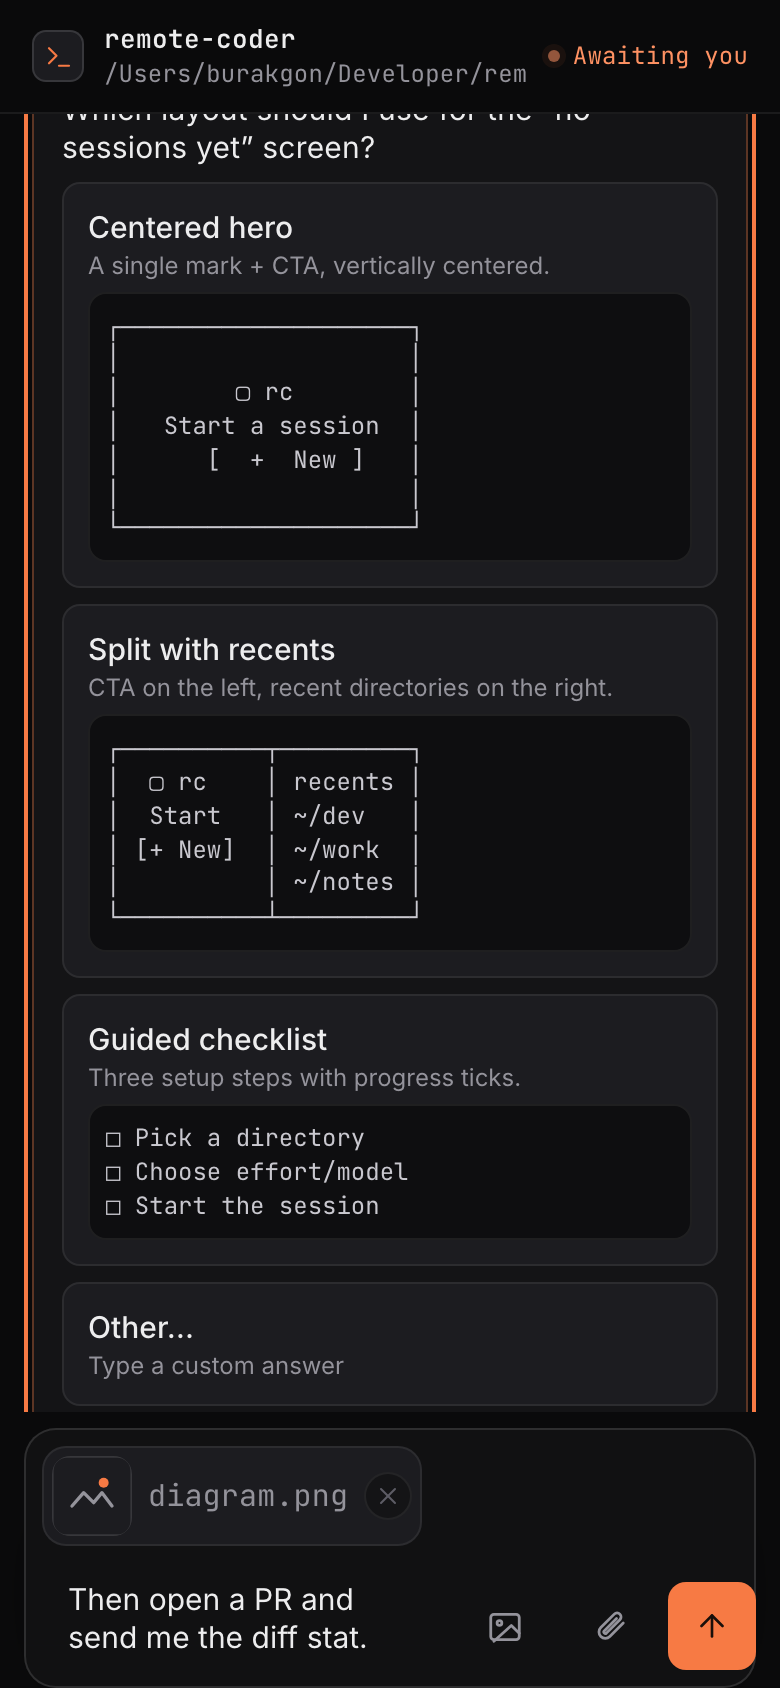
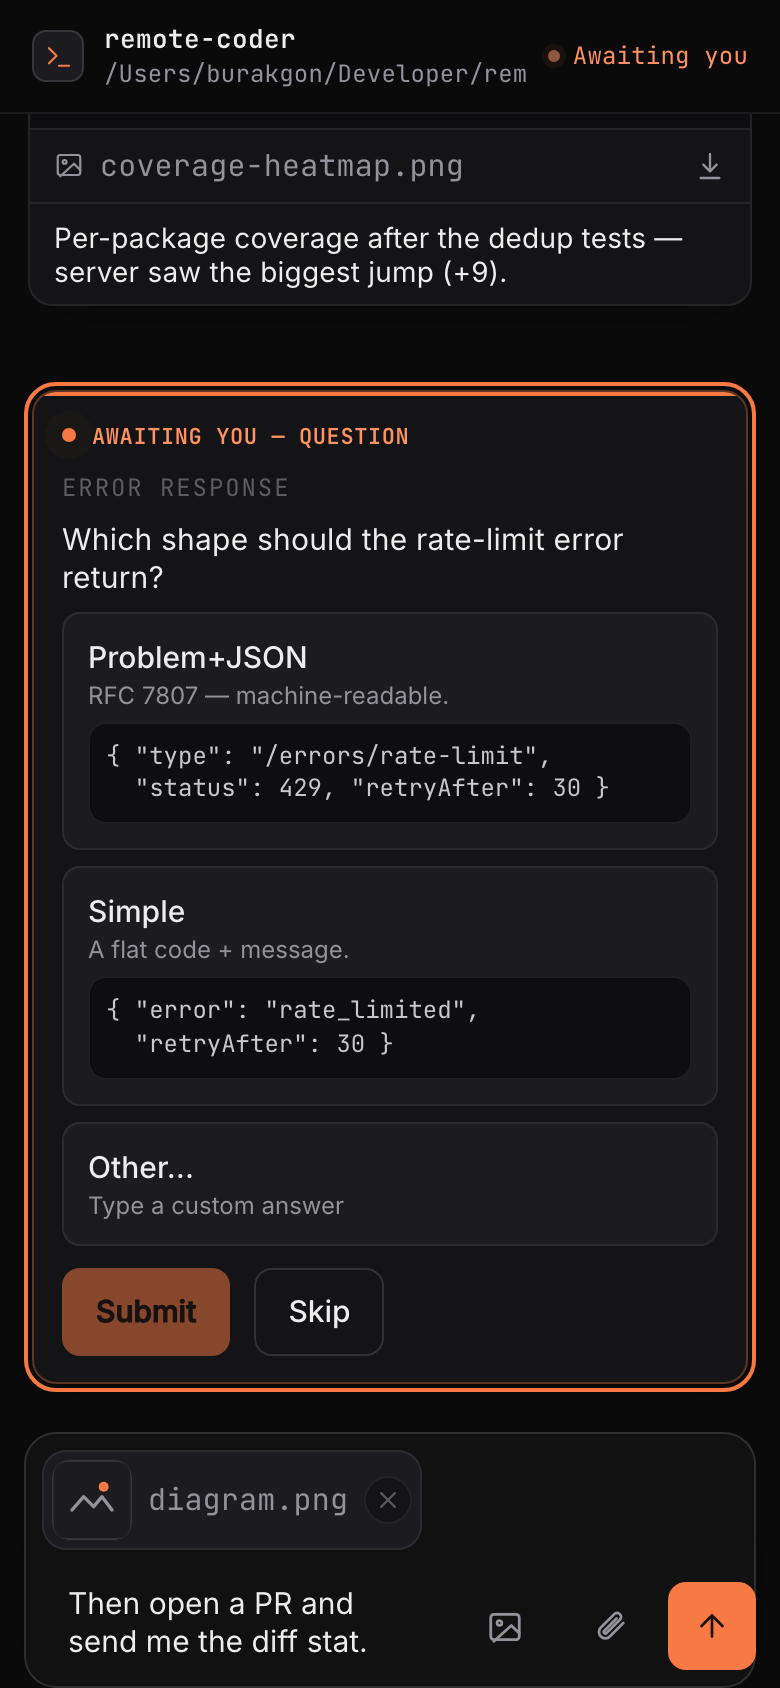
docs(readme): simplify the cluttered question screenshot (clean 2-option coding example)

diff --git a/packages/web/src/screenshot/seed.ts b/packages/web/src/screenshot/seed.ts
@@ -279,24 +279,19 @@ export const QUESTION: QuestionPayload = {
   toolInput: {},
   questions: [
     {
-      header: "Empty-state layout",
-      question: "Which layout should I use for the “no sessions yet” screen?",
+      header: "Error response",
+      question: "Which shape should the rate-limit error return?",
       multiSelect: false,
       options: [
         {
-          label: "Centered hero",
-          description: "A single mark + CTA, vertically centered.",
-          preview: "┌────────────────────┐\n│                    │\n│        ▢ rc        │\n│   Start a session  │\n│      [  +  New ]   │\n│                    │\n└────────────────────┘",
+          label: "Problem+JSON",
+          description: "RFC 7807 — machine-readable.",
+          preview: '{ "type": "/errors/rate-limit",\n  "status": 429, "retryAfter": 30 }',
         },
         {
-          label: "Split with recents",
-          description: "CTA on the left, recent directories on the right.",
-          preview: "┌──────────┬─────────┐\n│  ▢ rc    │ recents │\n│  Start   │ ~/dev   │\n│ [+ New]  │ ~/work  │\n│          │ ~/notes │\n└──────────┴─────────┘",
-        },
-        {
-          label: "Guided checklist",
-          description: "Three setup steps with progress ticks.",
-          preview: "□ Pick a directory\n□ Choose effort/model\n□ Start the session",
+          label: "Simple",
+          description: "A flat code + message.",
+          preview: '{ "error": "rate_limited",\n  "retryAfter": 30 }',
         },
       ],
     },